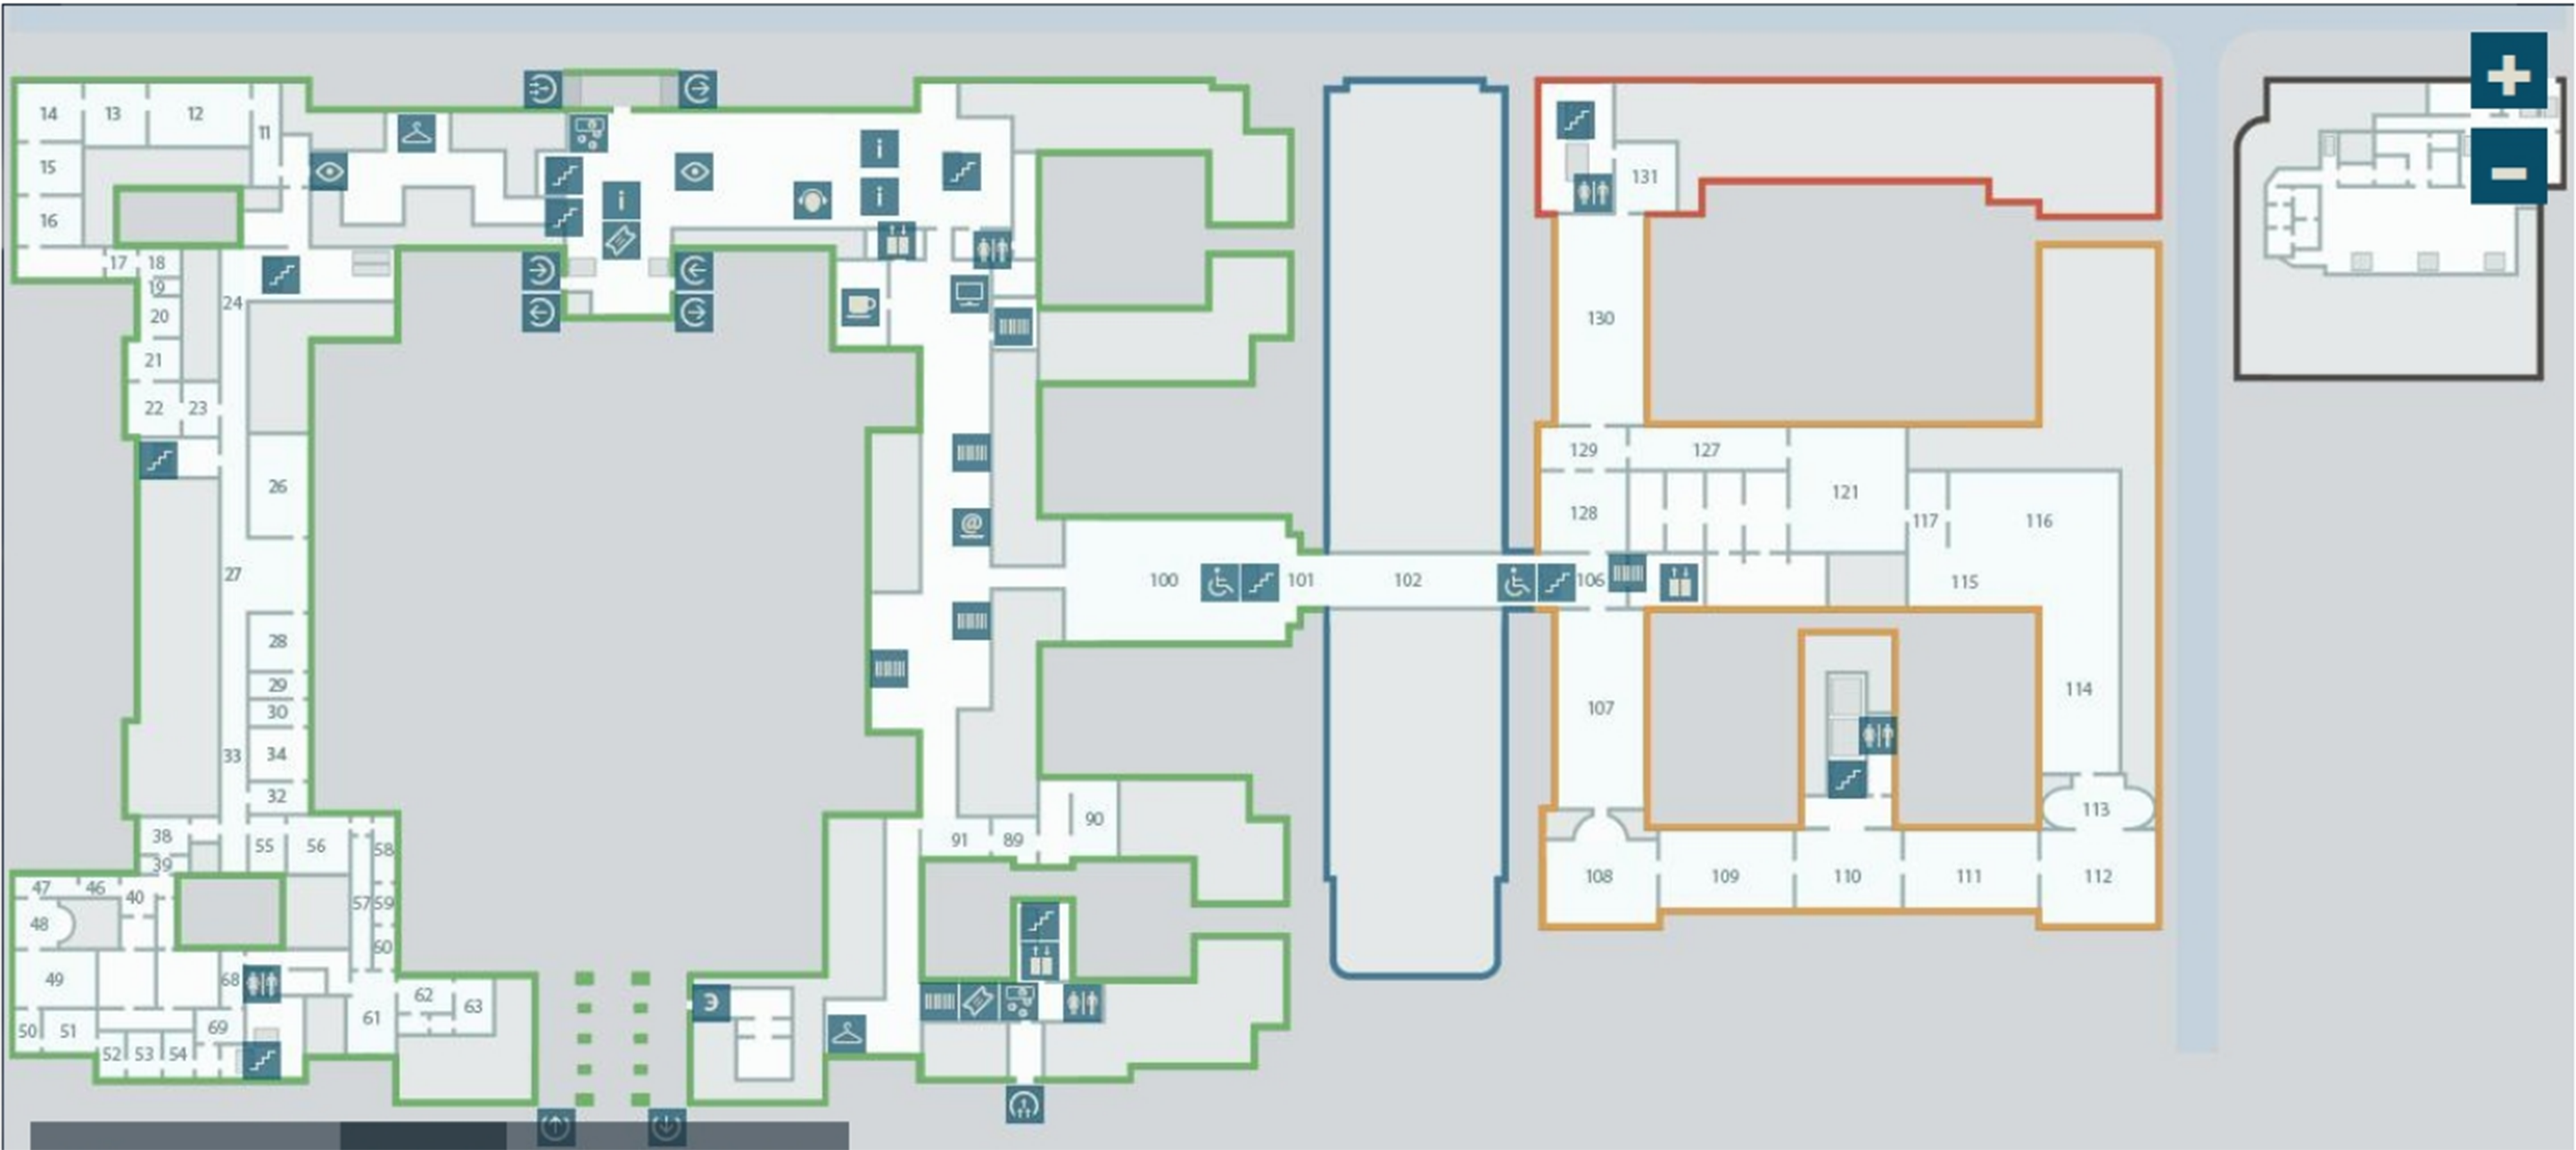
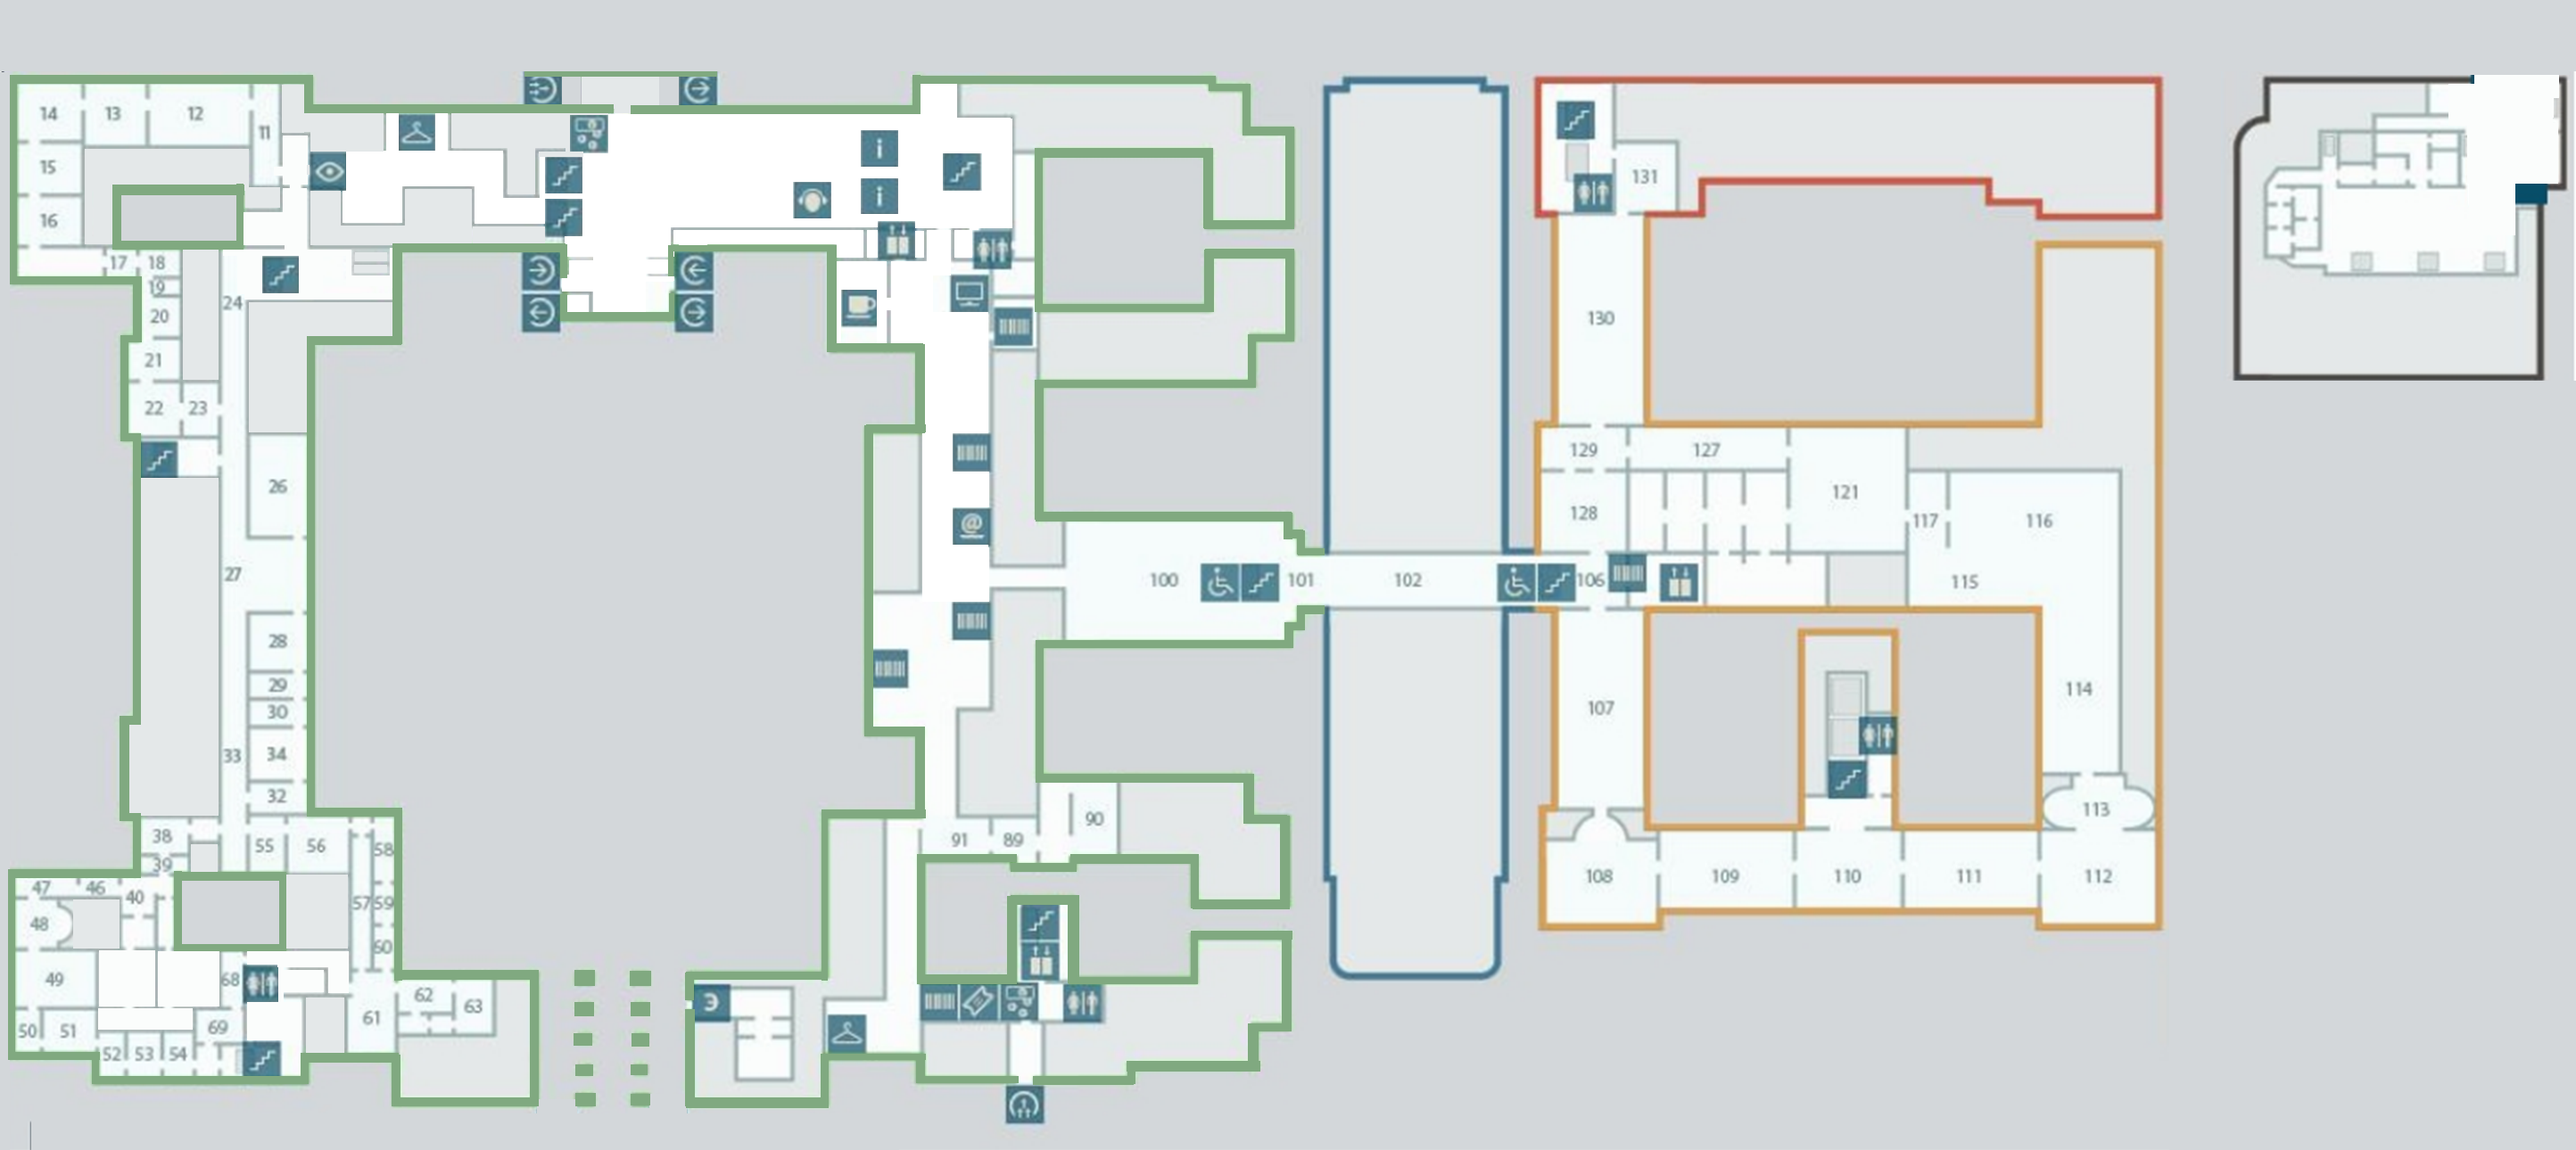
map

diff --git a/css/lines.css b/css/lines.css
@@ -27,6 +27,22 @@ body {
     width: 100%;
     height: 100%;
     background: url('../img/map-paths.png');
+    z-index: 50;
+    filter: brightness(0.4);
+}
+
+.tablo{
+    position: absolute;
+    z-index: 1000;
+    width: 50px;
+    height: 50px;
+    border-radius: 50px;
+    background-color: #fff;
+    border: 3px solid #494949;
+}
+
+.top{
+    z-index: 100 !important;
 }
 
 .free-table {
@@ -34,7 +50,7 @@ body {
     /* border: 4px solid rgba(51, 200, 51, 0.81); */
     /* border-radius: 5px; */
     /*background-color: blue;*/
-    z-index: 100;
+    z-index: 10;
 }
 
 .free-table > div{
@@ -57,4 +73,86 @@ body {
     background-color: #D3D7DA;
     /*-webkit-background-size: cover;*/
     /*background-size: cover;*/
+}
+
+[class*="icono"] {
+    position: relative;
+    display: inline-block;
+    vertical-align: middle;
+    color: #79d44c;
+    box-sizing: border-box;
+    animation: colorchange 2s infinite; /* animation-name followed by duration in seconds*/
+    /* you could also use milliseconds (ms) or something like 2.5s */
+    -webkit-animation: colorchange 2s infinite;
+}
+[class*="icono"]:after,
+[class*="icono"]:before {
+    content: "";
+    box-sizing: border-box;
+}
+[class*="icono-arrow1"] {
+    width: 20px;
+    height: 20px;
+    border-width: 4px 4px 0 0;
+    border-style: solid;
+    margin: 15px;
+}
+[class*="icono-arrow1"]:before {
+    right: 0;
+    top: -3px;
+    position: absolute;
+    height: 4px;
+    box-shadow: inset 0 0 0 32px;
+    -webkit-transform: rotate(-45deg);
+    transform: rotate(-45deg);
+    width: 23px;
+    -webkit-transform-origin: right top;
+    transform-origin: right top;
+}
+
+[class*="icono-arrow1"][class*="-left"] {
+    -webkit-transform: rotate(45deg);
+    transform: rotate(45deg);
+}
+[class*="icono-arrow1"][class*="-left"][class*="-up"] {
+    -webkit-transform: none;
+    transform: none;
+}
+[class*="icono-arrow1"][class*="-left"][class*="-down"] {
+    -webkit-transform: rotate(90deg);
+    transform: rotate(90deg);
+}
+[class*="icono-arrow1"][class*="-right"] {
+    -webkit-transform: rotate(-135deg);
+    transform: rotate(-135deg);
+}
+[class*="icono-arrow1"][class*="-right"][class*="-up"] {
+    -webkit-transform: rotate(-90deg);
+    transform: rotate(-90deg);
+}
+[class*="icono-arrow1"][class*="-right"][class*="-down"] {
+    -webkit-transform: rotate(180deg);
+    transform: rotate(180deg);
+}
+[class*="icono-arrow1"][class*="-up"] {
+    -webkit-transform: rotate(-45deg);
+    transform: rotate(-45deg);
+}
+[class*="icono-arrow1"][class*="-down"] {
+    -webkit-transform: rotate(135deg);
+    transform: rotate(135deg);
+}
+
+@keyframes colorchange
+{
+    0%   {color: green;}
+    50% {color: #79d44c;}
+    100% {color: green;}
+}
+
+@-webkit-keyframes colorchange /* Safari and Chrome - necessary duplicate */
+{
+    0%   {color: green;}
+    50% {color: #79d44c;}
+    100% {color: green;}
 }

diff --git a/js/map.js b/js/map.js
@@ -3,6 +3,44 @@
 
 var linesArrObj = [];
 
+var tabloArr = [
+    {
+        id: 0,
+        left: 682,
+        top: 206,
+    },
+    {
+        id: 1,
+        left: 318,
+        top: 197,
+    },
+    {
+        id: 2,
+        left: 247,
+        top: 625,
+    },
+    {
+        id: 3,
+        left: 247,
+        top: 890,
+    },
+    {
+        id: 4,
+        left: 1062,
+        top: 620,
+    }
+];
+
+var getLoad = function (callback) {
+    $.ajax({
+        url: 'http://172.19.245.109/table',
+        method: 'GET',
+        success: function (data) {
+            console.log(data);
+        }
+    })
+};
+
 var getRooms = function (callback) {
     /*$.getJSON('http://localhost/rooms.json', function(data) {
      linesArrObj = data;
@@ -1930,7 +1968,9 @@ $(function () {
             });
 
         }, 2000);
-    })
+    });
+
+    getLoad();
 
 
 });
@@ -1938,7 +1978,7 @@ $(function () {
 
 var makeDivByObject = function (obj, index) {
 
-    var $newObj = $("<div class='free-table'></div>")
+    var $newObj = $("<div class='free-table'></div>");
     $newObj.width(parseInt(obj.width));
     $newObj.height(parseInt(obj.height));
     $newObj.height(obj.height);
@@ -1974,7 +2014,16 @@ var makeDivByObject = function (obj, index) {
 
     return $newObj;
 
-}
+};
+
+var makeTabloObj = function (obj) {
+    var $newObj = $("<div class='tablo'><i class='icono-arrow1-right-up'></i></div>");
+    $newObj.attr("data-id", obj.id);
+    $newObj.css("left", obj.left);
+    $newObj.css("right", obj.right);
+    $newObj.css("top", obj.top);
+    return $newObj;
+};
 
 
 var initTables = function (data) {
@@ -1996,17 +2045,21 @@ var initObjFromImg = function () {
 
     for (var i = 0; i < window.objArr.length; i++) {
 
-        $addedDiv.append(window.objArr[i]);
+        $addedDiv.append(window.objArr[i].addClass('top'));
+        $addedDiv.append(window.objArr[i].clone().removeClass('top'));
     }
 
     $('#img-construct').append($('<div id="paths"></div>'));
+    for (var i = 0; i < tabloArr.length; i++) {
+        $('#img-construct').append(makeTabloObj(tabloArr[i]));
+    }
 }
 
 var test = function () {
     window.index = 11;
     var op = function () {
         if (window.index < 22) {
-            $('.free-table[data-room="' + window.index + '"]').fadeOut();
+            $('.free-table.top[data-room="' + window.index + '"]').fadeOut();
             window.index++;
             setTimeout(op, 200)
         }
